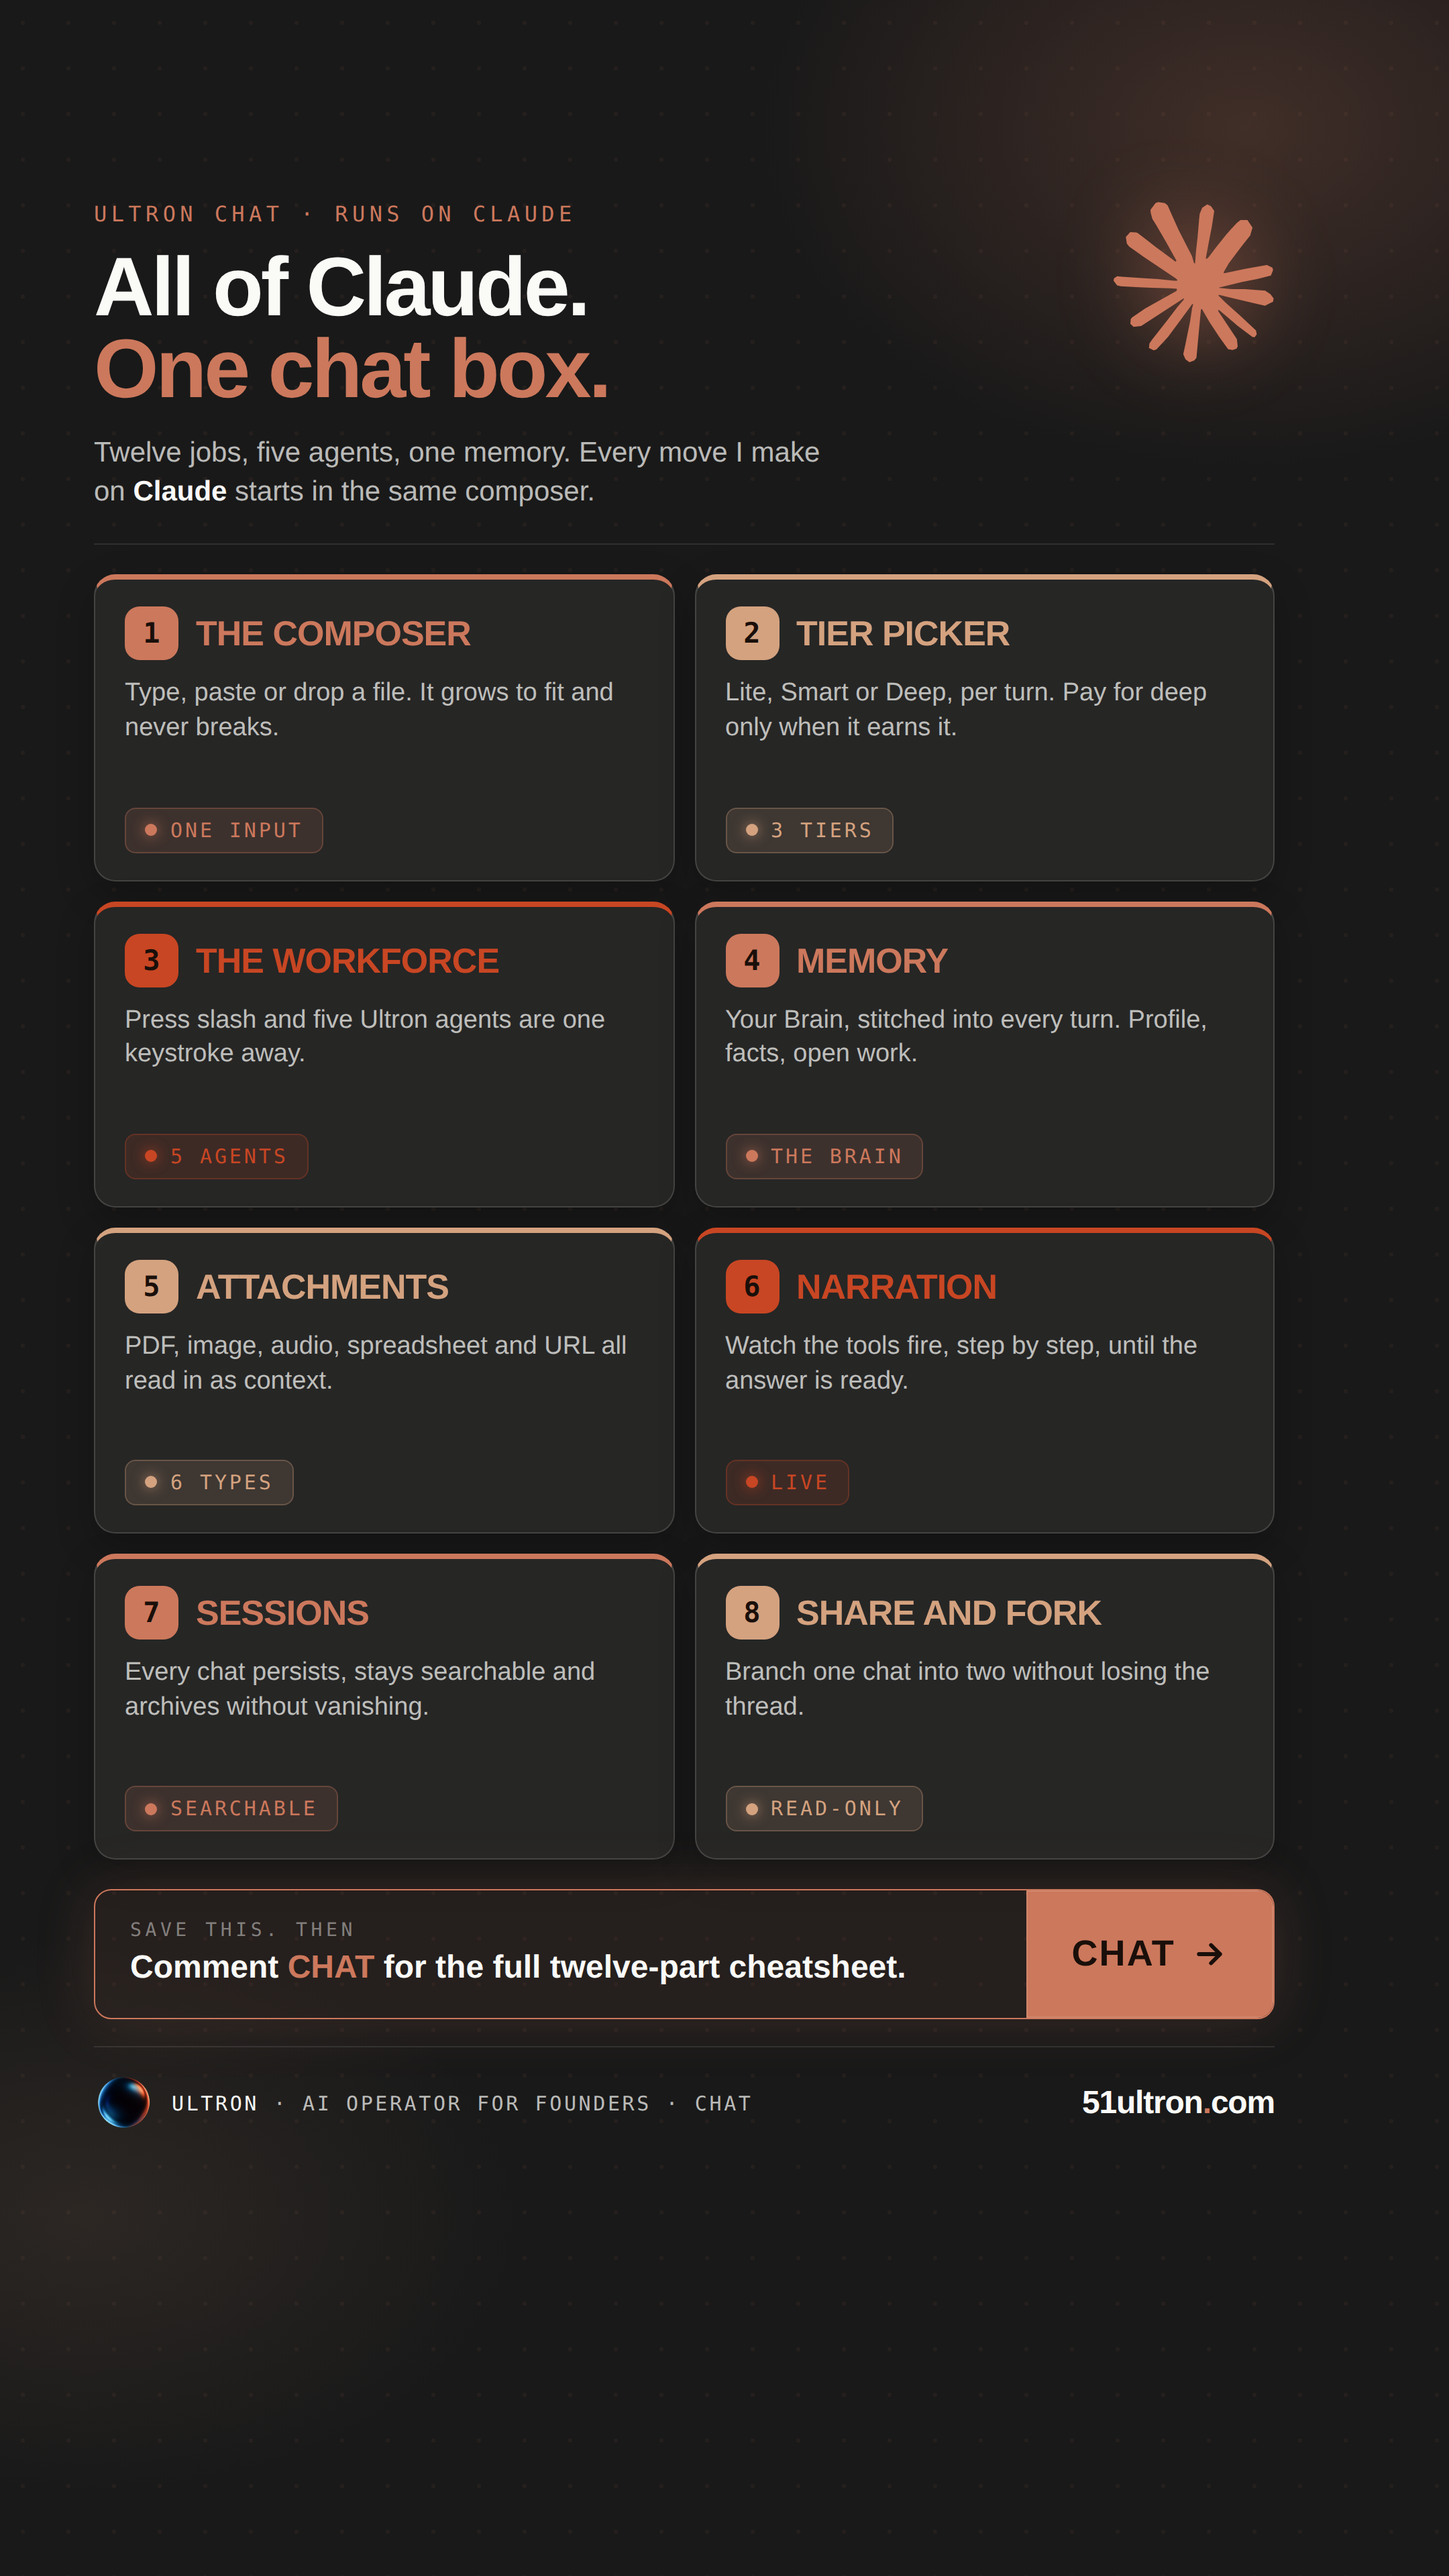
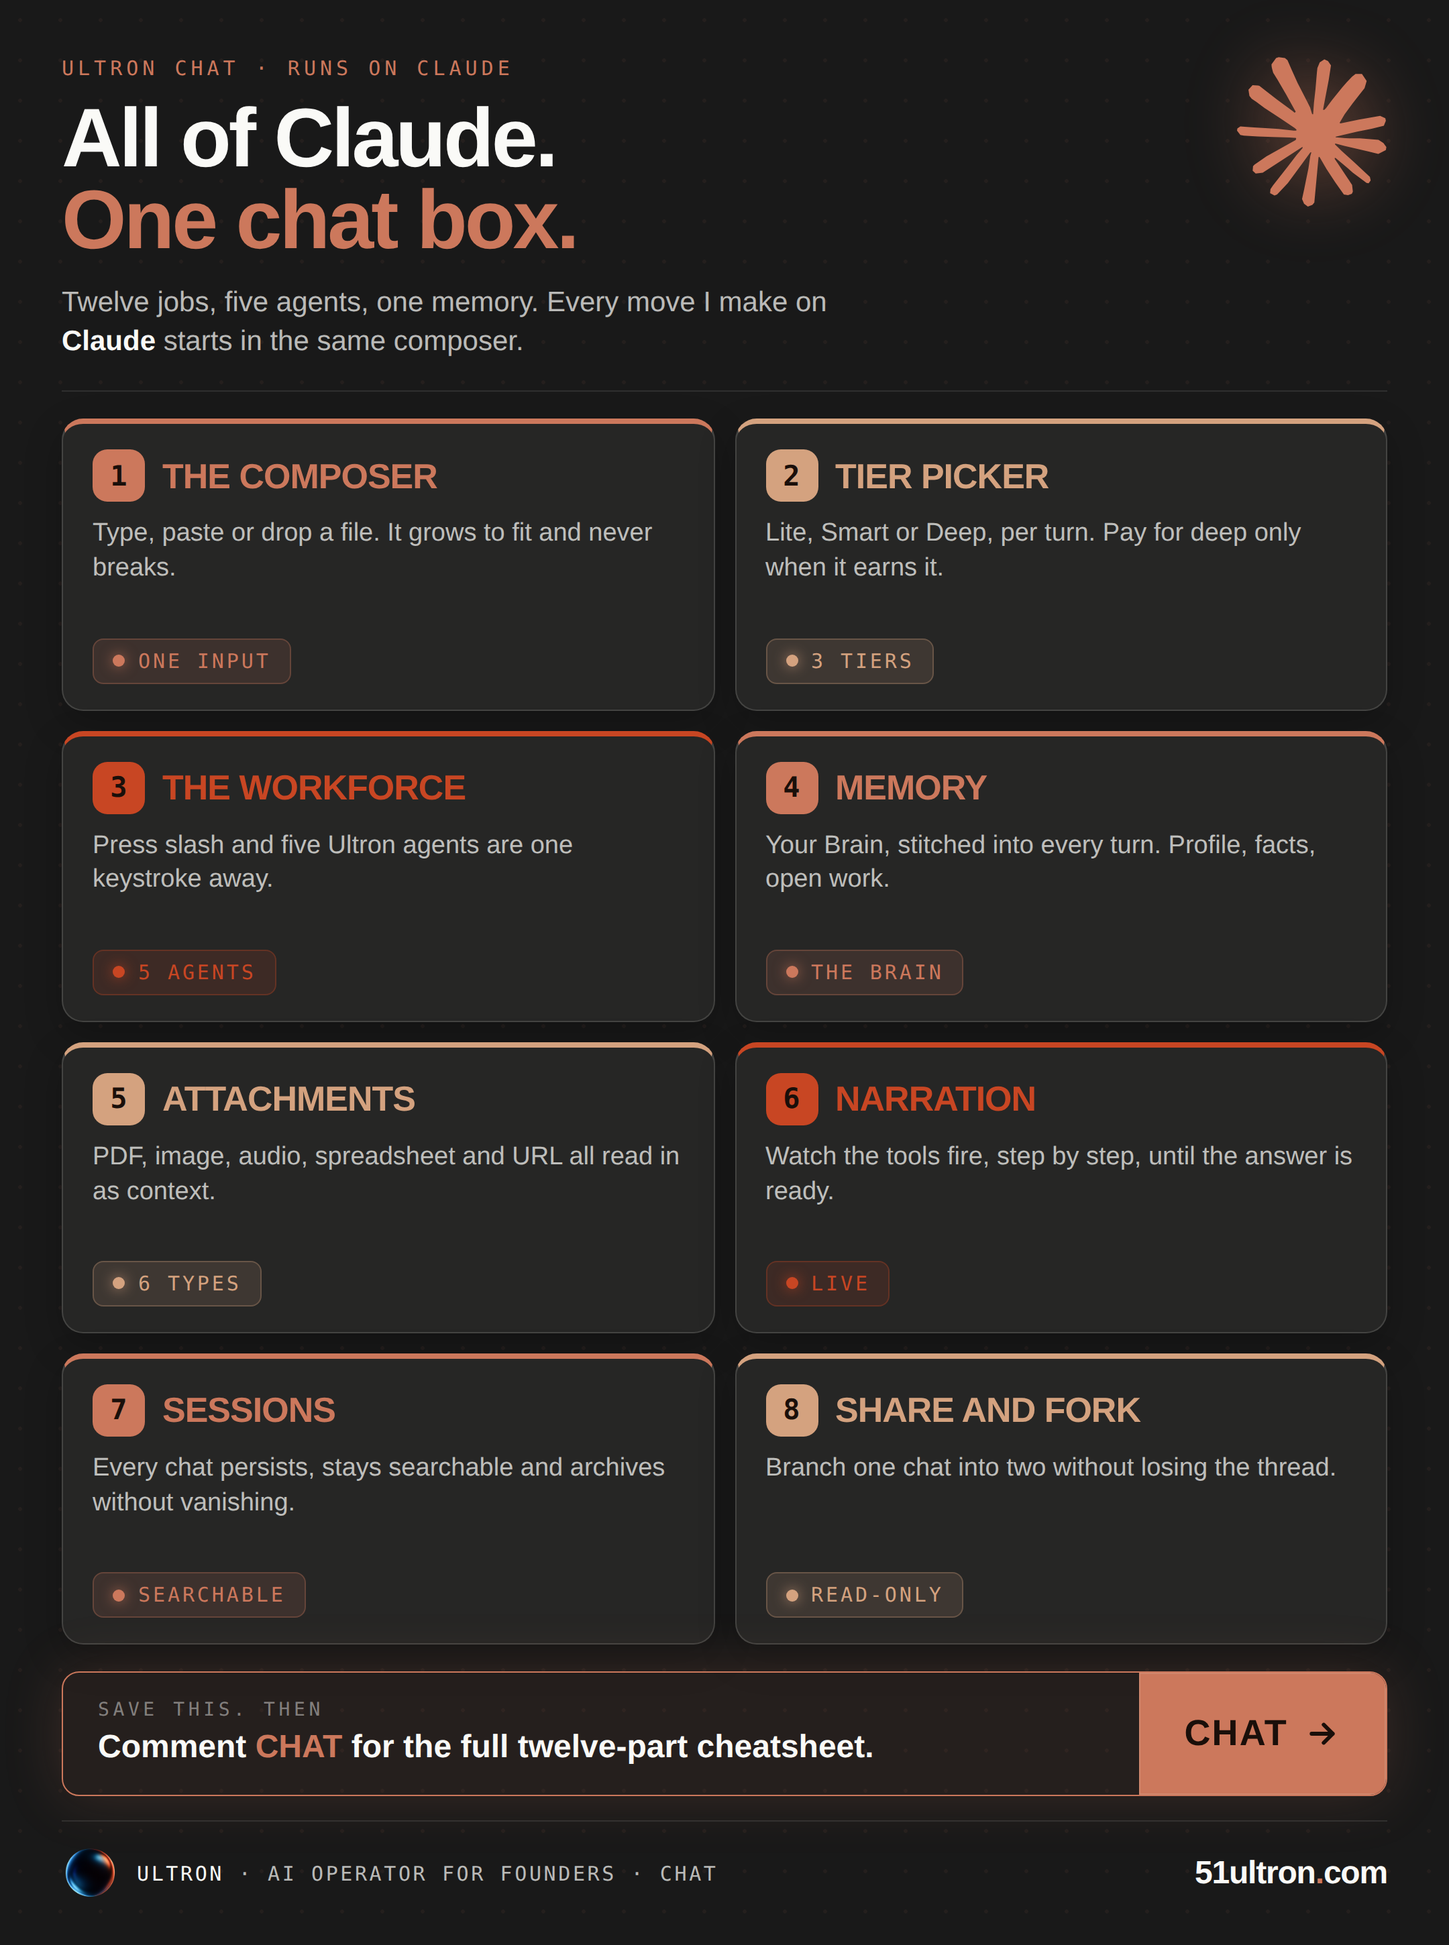
docs-03 TikTok infographic: resize to 1080x1450
The 1080x1920 infographic was too tall to read as a single image. Rebuilt
at 1080x1450 portrait (matching the LinkedIn format) with normal padding,
since a contained portrait image does not need the full-screen safe insets.
Dark Ultron theme, eight features, Claude hook and logo, CTA to CHAT, zero
dead space, exact 1080x1450. Carousel stays 1080x1920 for full-screen swipe.

https://claude.ai/code/session_018fS7xMwDiJUxoNS3zo3BKw

diff --git a/content/docs-03-chat-tiktok-infographic.html b/content/docs-03-chat-tiktok-infographic.html
@@ -1,49 +1,47 @@
 <!DOCTYPE html>
 <html lang="en"><head><meta charset="UTF-8">
-<title>TikTok Infographic - Ultron Chat (Dark Ultron, safe zones)</title>
+<title>TikTok Infographic - Ultron Chat (Dark Ultron, 1080x1450)</title>
 <link href="https://fonts.googleapis.com/css2?family=DM+Sans:opsz,wght@9..40,400;9..40,500;9..40,600;9..40,700;9..40,800;9..40,900&family=DM+Mono:wght@400;500&display=swap" rel="stylesheet">
 <style>
 :root{--slate:#191919;--slate2:#262625;--ivory:#FAFAF7;--ink70:rgba(250,250,247,.72);--ink46:rgba(250,250,247,.46);--ink30:rgba(250,250,247,.30);--ink14:rgba(250,250,247,.14);--rule:rgba(250,250,247,.10);
  --book:#CC785C;--book-d:#C84623;--kraft:#D4A27F;}
 *{box-sizing:border-box;margin:0;padding:0;}
 body{background:#0d0d0d;display:flex;justify-content:center;padding:24px 0;font-family:'DM Sans',sans-serif;}
-.frame{width:1080px;height:1920px;background:var(--slate);position:relative;overflow:hidden;color:var(--ivory);}
-.frame::before{content:'';position:absolute;inset:0;pointer-events:none;z-index:0;background-image:radial-gradient(rgba(204,120,92,.06) 1.6px,transparent 1.7px);background-size:34px 34px;}
-.atm{position:absolute;inset:0;pointer-events:none;z-index:1;background:radial-gradient(ellipse 56% 22% at 86% 5%,rgba(204,120,92,.22) 0%,transparent 60%),radial-gradient(ellipse 50% 18% at 6% 86%,rgba(212,162,127,.1) 0%,transparent 60%);}
-/* TikTok safe zone: top150 / right130 (action rail) / bottom330 (caption+nav) / left70 */
-.safe{position:absolute;top:150px;left:70px;right:130px;bottom:330px;z-index:2;display:flex;flex-direction:column;}
-.szmark{position:absolute;left:0;right:0;bottom:330px;border-top:1px dashed rgba(250,250,247,.06);z-index:1;}
+.frame{width:1080px;height:1450px;background:var(--slate);padding:42px 46px 32px;position:relative;overflow:hidden;color:var(--ivory);display:flex;flex-direction:column;}
+.frame::before{content:'';position:absolute;inset:0;pointer-events:none;z-index:0;background-image:radial-gradient(rgba(204,120,92,.06) 1.4px,transparent 1.5px);background-size:30px 30px;}
+.atm{position:absolute;inset:0;pointer-events:none;z-index:1;background:radial-gradient(ellipse 56% 28% at 88% -1%,rgba(204,120,92,.2) 0%,transparent 60%),radial-gradient(ellipse 50% 24% at 4% 101%,rgba(212,162,127,.1) 0%,transparent 60%);}
+.frame>*{position:relative;z-index:2;}
 
-.hero{flex-shrink:0;display:flex;align-items:flex-start;justify-content:space-between;gap:22px;padding-bottom:24px;border-bottom:1px solid var(--rule);margin-bottom:22px;}
-.eye{font-family:'DM Mono',monospace;font-size:16px;font-weight:500;letter-spacing:.2em;text-transform:uppercase;color:var(--book);margin-bottom:16px;}
+.hero{flex-shrink:0;display:flex;align-items:flex-start;justify-content:space-between;gap:24px;padding-bottom:22px;border-bottom:1px solid var(--rule);margin-bottom:20px;}
+.eye{font-family:'DM Mono',monospace;font-size:15px;font-weight:500;letter-spacing:.2em;text-transform:uppercase;color:var(--book);margin-bottom:14px;}
 .hook{font-weight:900;font-size:62px;line-height:.98;letter-spacing:-2px;color:var(--ivory);}
 .hook em{color:var(--book);font-style:normal;}
-.sub{margin-top:16px;font-size:21px;font-weight:500;line-height:1.4;color:var(--ink70);max-width:560px;}
+.sub{margin-top:15px;font-size:21px;font-weight:500;line-height:1.4;color:var(--ink70);max-width:640px;}
 .sub b{color:var(--ivory);font-weight:700;}
-.claude{width:120px;height:120px;flex-shrink:0;filter:drop-shadow(0 0 26px rgba(204,120,92,.45));}
+.claude{width:112px;height:112px;flex-shrink:0;filter:drop-shadow(0 0 24px rgba(204,120,92,.45));}
 .claude svg{width:100%;height:100%;}
 
-.grid{flex:1;display:grid;grid-template-columns:1fr 1fr;gap:15px;min-height:0;}
-.card{background:var(--slate2);border:1px solid var(--ink14);border-top:4px solid var(--c);border-radius:16px;padding:20px 22px;display:flex;flex-direction:column;box-shadow:0 10px 28px rgba(0,0,0,.22);}
-.ch{display:flex;align-items:center;gap:13px;margin-bottom:12px;}
-.cn{font-family:'DM Mono',monospace;width:40px;height:40px;border-radius:11px;background:var(--c);color:#1a0f0a;font-weight:700;font-size:21px;display:flex;align-items:center;justify-content:center;flex-shrink:0;}
+.grid{flex:1;display:grid;grid-template-columns:1fr 1fr;gap:15px;align-content:stretch;min-height:0;}
+.card{background:var(--slate2);border:1px solid var(--ink14);border-top:4px solid var(--c);border-radius:16px;padding:19px 22px;display:flex;flex-direction:column;box-shadow:0 10px 28px rgba(0,0,0,.22);}
+.ch{display:flex;align-items:center;gap:13px;margin-bottom:11px;}
+.cn{font-family:'DM Mono',monospace;width:39px;height:39px;border-radius:11px;background:var(--c);color:#1a0f0a;font-weight:700;font-size:21px;display:flex;align-items:center;justify-content:center;flex-shrink:0;}
 .ct{font-weight:800;font-size:26px;letter-spacing:-.5px;color:var(--c);text-transform:uppercase;line-height:1;}
-.cd{font-size:19px;font-weight:500;color:var(--ink70);line-height:1.36;flex:1;margin-bottom:14px;}
+.cd{font-size:19px;font-weight:500;color:var(--ink70);line-height:1.36;flex:1;margin-bottom:13px;}
 .cd b{color:var(--ivory);font-weight:700;}
 .cspec{align-self:flex-start;display:inline-flex;align-items:center;gap:10px;font-family:'DM Mono',monospace;font-size:15px;font-weight:500;letter-spacing:.13em;text-transform:uppercase;color:var(--c);background:color-mix(in srgb,var(--c) 14%,var(--slate2));border:1px solid color-mix(in srgb,var(--c) 38%,var(--slate2));padding:7px 14px;border-radius:8px;}
 .cspec .dot{width:9px;height:9px;border-radius:50%;background:var(--c);box-shadow:0 0 10px color-mix(in srgb,var(--c) 80%,transparent);}
 
-.cta{flex-shrink:0;margin-top:22px;display:flex;align-items:stretch;border:1px solid var(--book);border-radius:13px;overflow:hidden;box-shadow:0 0 44px rgba(204,120,92,.18);}
-.cta-l{flex:1;padding:22px 26px;display:flex;flex-direction:column;justify-content:center;gap:6px;background:rgba(204,120,92,.07);}
+.cta{flex-shrink:0;margin-top:20px;display:flex;align-items:stretch;border:1px solid var(--book);border-radius:13px;overflow:hidden;box-shadow:0 0 44px rgba(204,120,92,.18);}
+.cta-l{flex:1;padding:20px 26px;display:flex;flex-direction:column;justify-content:center;gap:6px;background:rgba(204,120,92,.07);}
 .cta-k{font-family:'DM Mono',monospace;font-size:14px;font-weight:500;letter-spacing:.2em;text-transform:uppercase;color:var(--ink46);}
 .cta-t{font-size:24px;font-weight:700;color:var(--ivory);line-height:1.2;}
 .cta-t b{color:var(--book);font-weight:900;}
 .cta-chip{flex-shrink:0;padding:0 34px;gap:12px;background:var(--book);display:flex;align-items:center;font-size:27px;font-weight:900;letter-spacing:.04em;text-transform:uppercase;color:#1a0f0a;box-shadow:inset 0 0 0 1px rgba(250,255,247,.12);}
 .cta-chip svg{width:27px;height:27px;stroke:#1a0f0a;stroke-width:2.6;fill:none;stroke-linecap:round;stroke-linejoin:round;}
 
-.ftr{flex-shrink:0;margin-top:20px;display:flex;align-items:center;justify-content:space-between;gap:18px;border-top:1px solid var(--rule);padding-top:20px;}
+.ftr{flex-shrink:0;margin-top:18px;display:flex;align-items:center;justify-content:space-between;gap:18px;border-top:1px solid var(--rule);padding-top:18px;}
 .fl{display:flex;align-items:center;gap:14px;min-width:0;}
-.flogo{width:44px;height:44px;border-radius:50%;object-fit:cover;flex-shrink:0;}
+.flogo{width:42px;height:42px;border-radius:50%;object-fit:cover;flex-shrink:0;}
 .ftx{font-family:'DM Mono',monospace;font-size:15px;font-weight:400;letter-spacing:.12em;text-transform:uppercase;color:var(--ink70);white-space:nowrap;overflow:hidden;text-overflow:ellipsis;}
 .ftx b{color:var(--ivory);font-weight:500;}
 .furl{font-family:'DM Sans',sans-serif;font-weight:900;font-size:24px;letter-spacing:-.6px;color:var(--ivory);flex-shrink:0;}
@@ -56,39 +54,37 @@ body{background:#0d0d0d;display:flex;justify-content:center;padding:24px 0;font-
 <div class="frame" id="artifact">
   <div class="atm"></div>
 
-  <div class="safe">
-    <div class="hero">
-      <div class="hero-l">
-        <div class="eye">ULTRON CHAT &middot; RUNS ON CLAUDE</div>
-        <div class="hook">All of Claude.<br><em>One chat box.</em></div>
-        <div class="sub">Twelve jobs, five agents, one memory. Every move I make on <b>Claude</b> starts in the same composer.</div>
-      </div>
-      <div class="claude"><svg viewBox="0 0 1200 1200"><use href="#claude-logo"/></svg></div>
+  <div class="hero">
+    <div class="hero-l">
+      <div class="eye">ULTRON CHAT &middot; RUNS ON CLAUDE</div>
+      <div class="hook">All of Claude.<br><em>One chat box.</em></div>
+      <div class="sub">Twelve jobs, five agents, one memory. Every move I make on <b>Claude</b> starts in the same composer.</div>
     </div>
+    <div class="claude"><svg viewBox="0 0 1200 1200"><use href="#claude-logo"/></svg></div>
+  </div>
 
-    <div class="grid">
-      <div class="card" style="--c:var(--book)"><div class="ch"><span class="cn">1</span><span class="ct">The composer</span></div><div class="cd">Type, paste or drop a file. It grows to fit and never breaks.</div><div class="cspec"><span class="dot"></span>One input</div></div>
-      <div class="card" style="--c:var(--kraft)"><div class="ch"><span class="cn">2</span><span class="ct">Tier picker</span></div><div class="cd">Lite, Smart or Deep, per turn. Pay for deep only when it earns it.</div><div class="cspec"><span class="dot"></span>3 tiers</div></div>
-      <div class="card" style="--c:var(--book-d)"><div class="ch"><span class="cn">3</span><span class="ct">The workforce</span></div><div class="cd">Press slash and five Ultron agents are one keystroke away.</div><div class="cspec"><span class="dot"></span>5 agents</div></div>
-      <div class="card" style="--c:var(--book)"><div class="ch"><span class="cn">4</span><span class="ct">Memory</span></div><div class="cd">Your Brain, stitched into every turn. Profile, facts, open work.</div><div class="cspec"><span class="dot"></span>The Brain</div></div>
-      <div class="card" style="--c:var(--kraft)"><div class="ch"><span class="cn">5</span><span class="ct">Attachments</span></div><div class="cd">PDF, image, audio, spreadsheet and URL all read in as context.</div><div class="cspec"><span class="dot"></span>6 types</div></div>
-      <div class="card" style="--c:var(--book-d)"><div class="ch"><span class="cn">6</span><span class="ct">Narration</span></div><div class="cd">Watch the tools fire, step by step, until the answer is ready.</div><div class="cspec"><span class="dot"></span>Live</div></div>
-      <div class="card" style="--c:var(--book)"><div class="ch"><span class="cn">7</span><span class="ct">Sessions</span></div><div class="cd">Every chat persists, stays searchable and archives without vanishing.</div><div class="cspec"><span class="dot"></span>Searchable</div></div>
-      <div class="card" style="--c:var(--kraft)"><div class="ch"><span class="cn">8</span><span class="ct">Share and fork</span></div><div class="cd">Branch one chat into two without losing the thread.</div><div class="cspec"><span class="dot"></span>Read-only</div></div>
-    </div>
+  <div class="grid">
+    <div class="card" style="--c:var(--book)"><div class="ch"><span class="cn">1</span><span class="ct">The composer</span></div><div class="cd">Type, paste or drop a file. It grows to fit and never breaks.</div><div class="cspec"><span class="dot"></span>One input</div></div>
+    <div class="card" style="--c:var(--kraft)"><div class="ch"><span class="cn">2</span><span class="ct">Tier picker</span></div><div class="cd">Lite, Smart or Deep, per turn. Pay for deep only when it earns it.</div><div class="cspec"><span class="dot"></span>3 tiers</div></div>
+    <div class="card" style="--c:var(--book-d)"><div class="ch"><span class="cn">3</span><span class="ct">The workforce</span></div><div class="cd">Press slash and five Ultron agents are one keystroke away.</div><div class="cspec"><span class="dot"></span>5 agents</div></div>
+    <div class="card" style="--c:var(--book)"><div class="ch"><span class="cn">4</span><span class="ct">Memory</span></div><div class="cd">Your Brain, stitched into every turn. Profile, facts, open work.</div><div class="cspec"><span class="dot"></span>The Brain</div></div>
+    <div class="card" style="--c:var(--kraft)"><div class="ch"><span class="cn">5</span><span class="ct">Attachments</span></div><div class="cd">PDF, image, audio, spreadsheet and URL all read in as context.</div><div class="cspec"><span class="dot"></span>6 types</div></div>
+    <div class="card" style="--c:var(--book-d)"><div class="ch"><span class="cn">6</span><span class="ct">Narration</span></div><div class="cd">Watch the tools fire, step by step, until the answer is ready.</div><div class="cspec"><span class="dot"></span>Live</div></div>
+    <div class="card" style="--c:var(--book)"><div class="ch"><span class="cn">7</span><span class="ct">Sessions</span></div><div class="cd">Every chat persists, stays searchable and archives without vanishing.</div><div class="cspec"><span class="dot"></span>Searchable</div></div>
+    <div class="card" style="--c:var(--kraft)"><div class="ch"><span class="cn">8</span><span class="ct">Share and fork</span></div><div class="cd">Branch one chat into two without losing the thread.</div><div class="cspec"><span class="dot"></span>Read-only</div></div>
+  </div>
 
-    <div class="cta">
-      <div class="cta-l">
-        <div class="cta-k">Save this. Then</div>
-        <div class="cta-t">Comment <b>CHAT</b> for the full twelve-part cheatsheet.</div>
-      </div>
-      <div class="cta-chip">CHAT <svg viewBox="0 0 24 24"><path d="M5 12h14M13 6l6 6-6 6"/></svg></div>
+  <div class="cta">
+    <div class="cta-l">
+      <div class="cta-k">Save this. Then</div>
+      <div class="cta-t">Comment <b>CHAT</b> for the full twelve-part cheatsheet.</div>
     </div>
+    <div class="cta-chip">CHAT <svg viewBox="0 0 24 24"><path d="M5 12h14M13 6l6 6-6 6"/></svg></div>
+  </div>
 
-    <div class="ftr">
-      <div class="fl"><img class="flogo" src="__LOGO_URI__" alt="Ultron"><div class="ftx"><b>ULTRON</b> &middot; AI OPERATOR FOR FOUNDERS &middot; CHAT</div></div>
-      <div class="furl">51ultron<em>.</em>com</div>
-    </div>
+  <div class="ftr">
+    <div class="fl"><img class="flogo" src="__LOGO_URI__" alt="Ultron"><div class="ftx"><b>ULTRON</b> &middot; AI OPERATOR FOR FOUNDERS &middot; CHAT</div></div>
+    <div class="furl">51ultron<em>.</em>com</div>
   </div>
 </div>
 </body></html>
